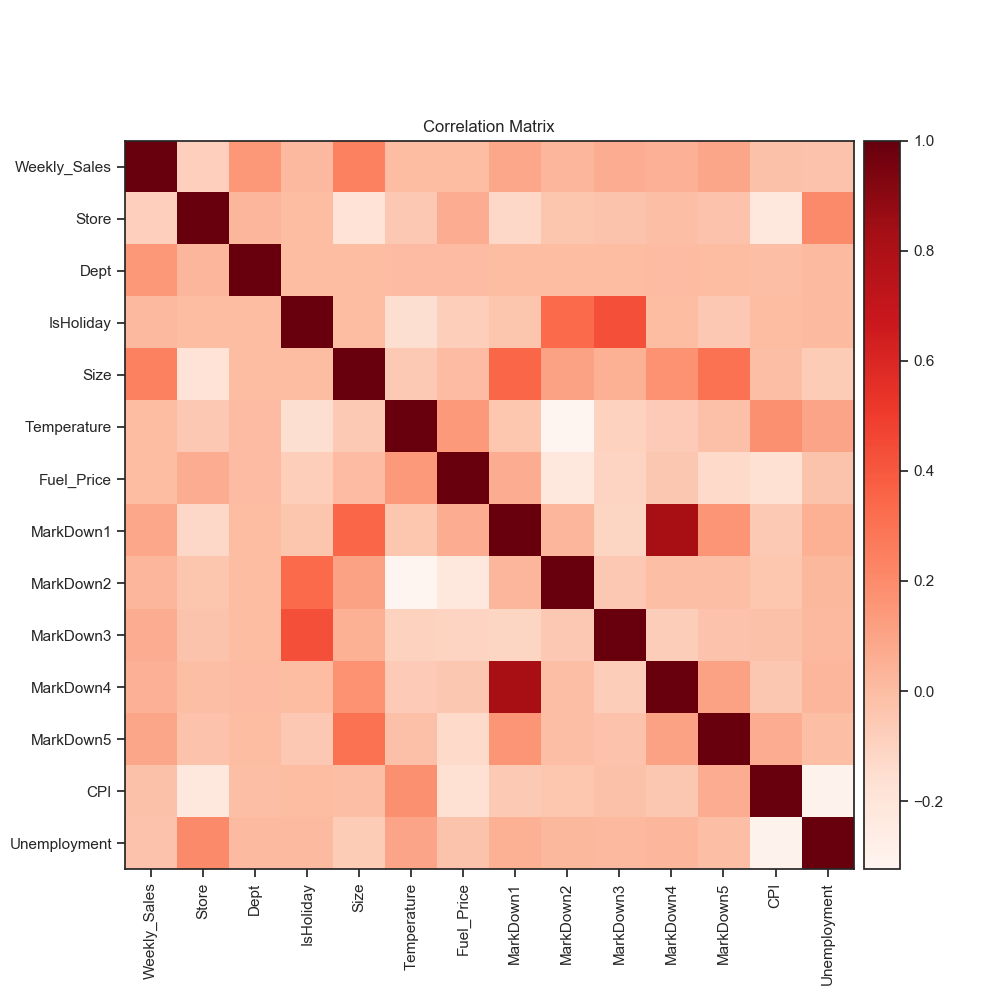
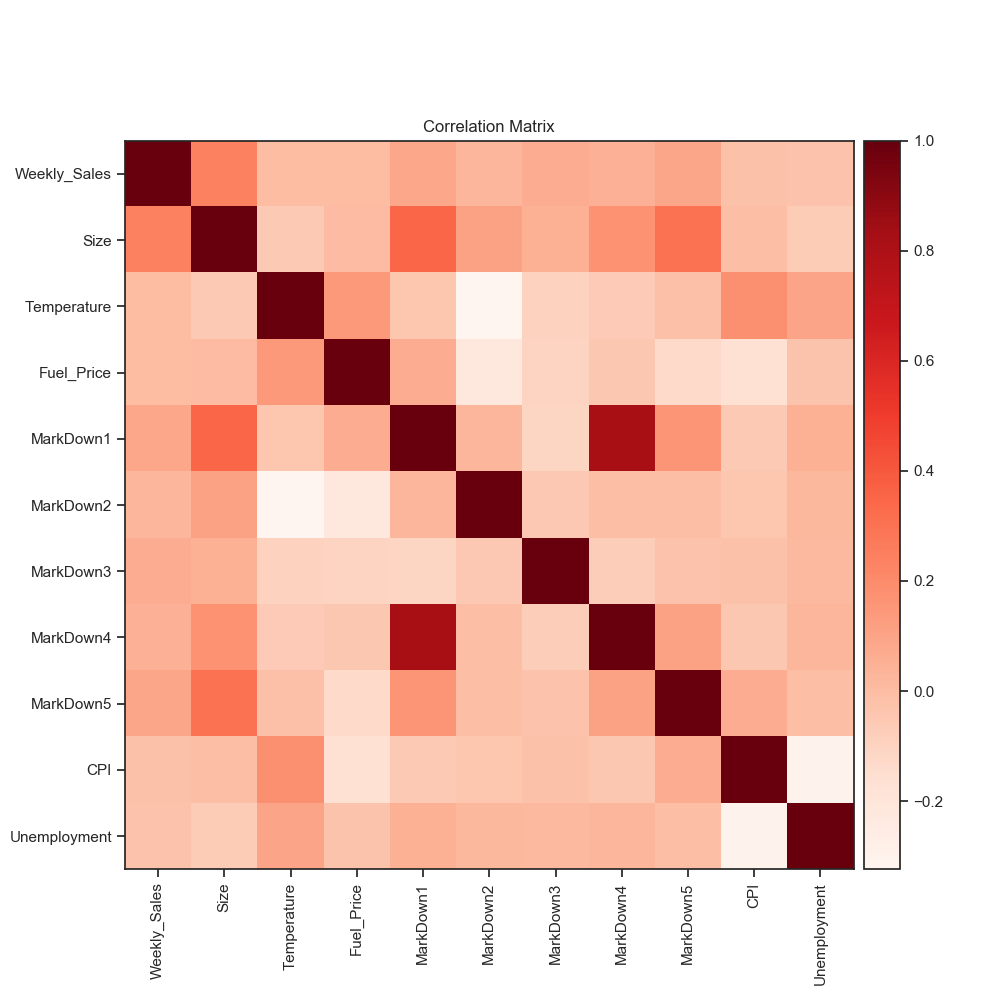
Final code 2.0

diff --git a/Descriptive_Analysis/Correlation_matrix_of_the_features.py b/Descriptive_Analysis/Correlation_matrix_of_the_features.py
@@ -4,6 +4,7 @@ import pandas as pd
 import seaborn as sns; sns.set(style="ticks", color_codes=True)
 import matplotlib.pyplot as plt
 from mpl_toolkits.axes_grid1 import make_axes_locatable
+from sklearn import preprocessing
 
 # read data
 train = pd.read_csv("../Data/train.csv",sep=',', header=0)
@@ -14,6 +15,14 @@ stores = pd.read_csv("../Data/stores.csv",sep=',', header=0)
 dataset = train.merge(stores, how='left').merge(features, how='left')
 dataset = dataset[['Weekly_Sales','Store', 'Dept', 'Date', 'IsHoliday', 'Type', 'Size', 'Temperature', 'Fuel_Price',
                    'MarkDown1', 'MarkDown2', 'MarkDown3', 'MarkDown4', 'MarkDown5', 'CPI', 'Unemployment']]
+
+cat_col = ['IsHoliday','Type']
+
+for col in cat_col:
+    encoder = preprocessing.LabelEncoder()
+    encoder.fit(dataset[col].values.astype('str'))
+    dataset[col] = encoder.transform(dataset[col].values.astype('str'))
+
 
 def plot_corr(df):
     plt.figure(figsize=(10,10))
@@ -28,6 +37,6 @@ def plot_corr(df):
     plt.colorbar(im, cax=cax)
     plt.savefig('../Images/Correlation_matrix.png')
 
-dataset_for_corr = dataset.drop(columns=['Type', 'Date'])
+dataset_for_corr = dataset.drop(columns=['Store', 'Dept', 'Date', 'IsHoliday', 'Type'])
 
 plot_corr(dataset_for_corr)

diff --git a/Descriptive_Analysis/Pairplots.py b/Descriptive_Analysis/Pairplots.py
@@ -22,21 +22,7 @@ for col in cat_col:
     encoder.fit(dataset[col].values.astype('str'))
     dataset[col] = encoder.transform(dataset[col].values.astype('str'))
 
-# Plot all the features agains the Weekly_Sales
-rows = [3,2]
-r = 0
-for i in [1,10]:
-    fig, ax = plt.subplots(ncols=3,nrows=rows[r],figsize=(9,rows[r]*3))
-    plt.subplots_adjust(wspace=.7, hspace=.5)
-    for row in ax:
-        for col in row:
-                col.scatter(dataset[list(dataset.columns.values)[i]], dataset['Weekly_Sales'], s=[5])
-                col.set_ylabel('Weekly_Sales')
-                col.set_xlabel(list(dataset.columns.values)[i])
-                if i == 15:
-                    col.set_visible(False)
-                i += 1
-    plt.savefig('../Images/Scatterplots' + str(r) + '.png')
+dataset1 = dataset.drop(columns=[ 'MarkDown1', 'MarkDown2', 'MarkDown3', 'MarkDown4', 'MarkDown5','Date','Store','CPI','Unemployment' ,'IsHoliday','Temperature', 'Fuel_Price'])
 
-    r += 1
-
+sns.pairplot(dataset1)
+plt.show()
